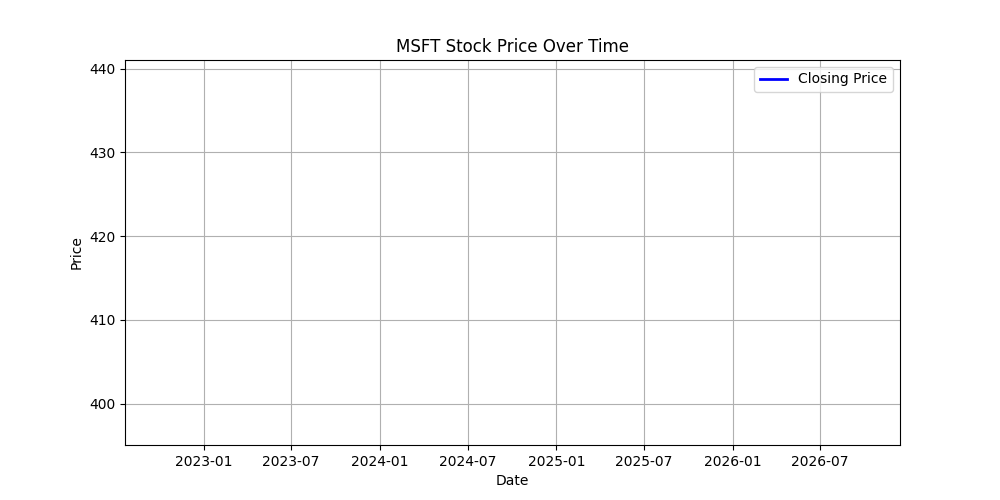
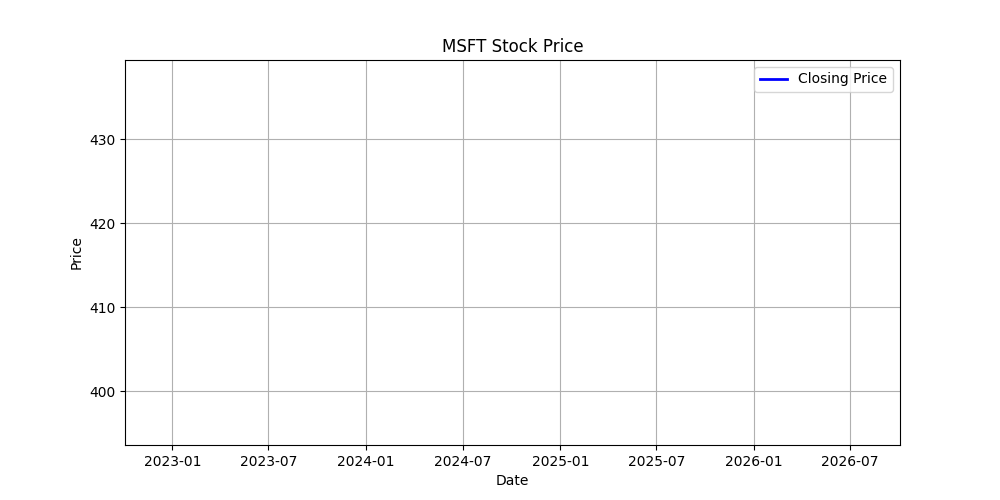
Fixed overwriting

diff --git a/store_data.py b/store_data.py
@@ -1,12 +1,12 @@
-from google.cloud import datastore, storage  #google Cloud Datastore and Storage
-import yfinance as yf                        #yahoo Finance
+from google.cloud import datastore, storage  #Google Cloud Datastore and Storage
+import yfinance as yf                        #Yahoo Finance
 from datetime import datetime                #date and time
 import pandas as pd                          
 import matplotlib.pyplot as plt             
 
 #Google Cloud project ID
 PROJECT_ID = 'linear-listener-436516-c9'
-#Google Cloud Storage bucket name
+#bucket name
 BUCKET_NAME = 'stock-bucket-4099'
 
 #initialize datastore and storage clients
@@ -14,9 +14,9 @@ datastore_client = datastore.Client(project=PROJECT_ID)
 storage_client = storage.Client()
 
 def store_stock_data(ticker):
-    #fetch stock data for the given ticker symbol
+    #fetch data for given ticker symbol
     stock = yf.Ticker(ticker)
-    #latest data
+    #latest data (period='1d')
     data = stock.history(period='1d')  
 
     #is data available?
@@ -24,8 +24,8 @@ def store_stock_data(ticker):
         print("No data found for", ticker)
         return
 
-    #new entity in Datastore with kind 'stockData'
-    entity = datastore.Entity(datastore_client.key('stockData'))
+    #new entity in datastore with a unique key (avoids overwriting)
+    entity = datastore.Entity(datastore_client.key('stockData', f"{ticker}_{datetime.utcnow().isoformat()}"))
 
     #set the properties of the entity with stock data
     entity.update({
@@ -39,55 +39,71 @@ def store_stock_data(ticker):
     datastore_client.put(entity)
     print(f"Stored data for {ticker}")
 
-    #convert to Pandas (pd)
+    #convert to Pandas DataFrame
     df = pd.DataFrame(data)
+
+    #append new stock data to existing CSV file
+    append_to_csv(df, ticker)
 
     #plot and save the stock data
     plot_stock_data(df, ticker)
 
-    #store the data in cloud Storage as a CSV file
-    store_data_in_cloud(df, ticker)
-
-def plot_stock_data(df, ticker): #matplotlib to plot data
-    plt.figure(figsize=(10, 5))
-    plt.plot(df['Close'], label='Closing Price', color = 'blue', linewidth=2)
-    plt.title(f'{ticker} Stock Price')
-    plt.xlabel('Date')
-    plt.ylabel('Price')
-    plt.legend()
-    plt.grid(True)
-    
-    #save the plot(locally as .png file)
-    plot_filename = f'{ticker}_stock_plot.png'
-    plt.savefig(plot_filename)
-    plt.show()
-
-    #upload plot to cloud Storage
-    upload_to_gcs(BUCKET_NAME, plot_filename, f'stocks/{plot_filename}')
-
-def store_data_in_cloud(df, ticker):
-    #select only the desired columns (price, volume, and date)
+def append_to_csv(df, ticker):
+    #desired columns
     selected_data = df[['Close', 'Volume']].copy()
-    selected_data['Date'] = df.index  #date as a separate column
+    selected_data['Date'] = df.index
 
-    #renmae columns
+    #rename column
     selected_data.columns = ['Price', 'Volume', 'Date']
 
-    #convert DataFrame to CSV and save locally
+    #csv filename
     csv_filename = f'{ticker}_stock_data.csv'
+
+    #if csv already exists, append new data
+    try:
+        #fead the existing data from csv
+        existing_data = pd.read_csv(csv_filename)
+        #concatenate new data with existing data
+        selected_data = pd.concat([existing_data, selected_data], ignore_index=True)
+    except FileNotFoundError:
+        #file doesn't exist, start fresh
+        pass  
+
+    #save the updated frame to csv (overwrites old file)
     selected_data.to_csv(csv_filename, index=False)
 
-    #upload the CSV file to cloud Storage
+    #upload csv to cloud
     upload_to_gcs(BUCKET_NAME, csv_filename, f'stocks/{csv_filename}')
 
+def plot_stock_data(df, ticker): 
+    df.index = pd.to_datetime(df.index) #datetime
+    #matplotlib to plot stock data
+    plt.figure(figsize=(10, 5))  #size of the plot
+    plt.plot(df['Close'], label='Closing Price', color='blue', linewidth=2)  #closing price
+    plt.title(f'{ticker} Stock Price')  #title
+    plt.xlabel('Date')  #X-axis label
+    plt.ylabel('Price')  #Y-axis label
+    plt.legend()  #show legend
+    plt.grid(True)  #show grid lines
+    plt.xlim(df.index.min(), df.index.max()) #x-axis stretching too far, limit to data avalible
+
+     #save the plot
+    plot_filename = f'{ticker}_stock_plot.png'
+    plt.savefig(plot_filename)
+    plt.show()  #display
+    
+    #upload to cloud storage
+    upload_to_gcs(BUCKET_NAME, plot_filename, f'stocks/{plot_filename}')
+
 def upload_to_gcs(bucket_name, source_file_name, destination_blob_name):
-    #upload to cloud Storage bucket
+    #upload to bucket
     bucket = storage_client.bucket(bucket_name)
     blob = bucket.blob(destination_blob_name)
-    blob.upload_from_filename(source_file_name)
+    blob.upload_from_filename(source_file_name)  #upload file to specified destination
+    
     print(f'File {source_file_name} uploaded to {destination_blob_name}.')
 
-def retrieve_stock_data(): #retrieve all stored data and display it
+def retrieve_stock_data():  #retrieve all stored data and display it
     
     #create a query for entities of kind 'stockData'
     query = datastore_client.query(kind='stockData')
@@ -95,13 +111,15 @@ def retrieve_stock_data(): #retrieve all stored data and display it
     #fetch all entities matching the query
     results = query.fetch()
 
-    #display each entity's data with iteration
+    #display each entity's data using iteration
     for entity in results:
         print(f"{entity['timestamp']} - {entity['ticker']}: ${entity['price']} (Volume: {entity['volume']})")
 
 if __name__ == '__main__':
-    #ticker
-    ticker_symbol = 'MSFT'  # AMZN, MSFT
+
+    ticker_symbol = 'MSFT' #ticker symbol, MSFT for this week
+    
     store_stock_data(ticker_symbol)
+    
     #retrieve and display all stored stock data
     retrieve_stock_data()

diff --git a/README.md b/README.md
@@ -1,1 +1,5 @@
 # 4099-Week5
+
+Stock Data Collection:
+
+To last week's stock data retrieval code, add functions to store data in Pandas and a Matplotlib chart, upload this visualization and the accompanying CSV file to a Google Cloud Storage bucket. Add a cronjob to the code that makes it run every weekday at 6PM EST, when the market closes.
